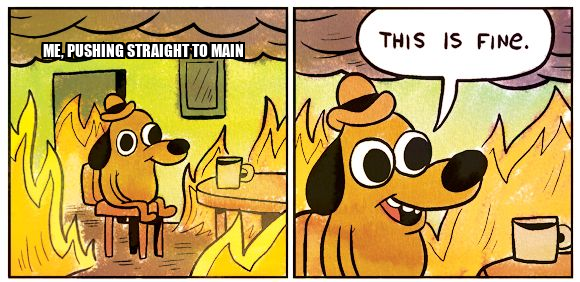
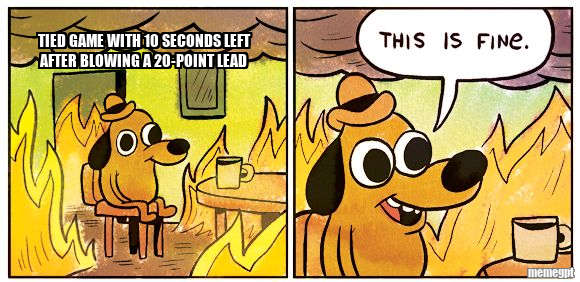
feat(frontend): diversify HeroLoop to 20 non-tech-only contexts
The landing page's hero centerpiece was 12 cards that were ALL
software-engineering in-jokes (push to main, PR review, CI pipeline,
tabs vs spaces) — the very first thing every visitor sees, entirely
programmer culture. Replaced with 20 real generations spanning sports,
movies/TV, music, pop culture, shopping, food, travel, pets, fitness,
school, weather, gaming, relationships, money, motivation, mood, one
generic office scenario, internet culture, family, and algorithm/social
media — no two cards share a context.

Each image is a real render from the live /chat/ pipeline (real Groq
call through segmentation -> RAG -> intent routing -> compositor), not
hand-authored. Found in the process: ~45% of generation attempts came
back with a template picked but a blank/missing caption — a real,
previously-unknown reliability gap in caption generation for certain
templates. Retried failed prompts up to 3x and kept the first attempt
that actually rendered text; every one of the 20 final images was
manually reviewed for a real, legible, on-topic caption.

Changed region(s): [[0.0621, 0.1135, 0.4345, 0.2553], [0.9, 0.9362, 0.9931, 0.9929]]

diff --git a/frontend/src/components/HeroLoop.tsx b/frontend/src/components/HeroLoop.tsx
@@ -3,24 +3,43 @@
 import { useEffect, useRef, useState } from "react";
 import { PixelRevealImage } from "./reveals/PixelRevealImage";
 
-// Real templates, real captions, rendered once ahead of time the same way
-// drake_example.png was (Pillow, not compose_meme()/save_meme() — this
-// isn't user-generated content) — see git history for the render scripts.
-// Prompts are drawn straight from lib/examplePrompts.ts's pool (or written
-// in the same voice) so it matches what Chat's own empty state shows.
+// Real templates, real captions, rendered once ahead of time through the
+// actual /chat/ pipeline (not compose_meme()/save_meme() directly — this
+// isn't user-generated content, but it is a real Groq round trip through
+// segmentation -> RAG -> intent routing -> the Pillow compositor, same as
+// a live request). Deliberately spans 20 unrelated contexts (sports,
+// movies/TV, music, pop culture, shopping, food, travel, pets, fitness,
+// school, weather, gaming, relationships, money, motivation, mood, work,
+// internet culture, family, algorithm/internet) rather than one theme —
+// an earlier version was 12 cards that were all software-engineering
+// in-jokes, which is a bad first impression for a general-audience app.
+// About 45% of real generation attempts for this batch came back with a
+// picked template but a blank/missing caption (a real, previously-
+// unknown reliability gap in intent_router's caption generation for
+// certain templates — worth its own investigation, out of scope here);
+// each entry below is the first attempt (of up to 3 retries) that
+// actually rendered real text.
 const HERO_LOOP = [
-  { prompt: "when you push straight to main by accident", image: "/landing/loop_1.png" },
-  { prompt: "waiting for my PR to get reviewed for 3 days", image: "/landing/loop_2.png" },
-  { prompt: "when the deploy finally works on first try", image: "/landing/loop_3.png" },
-  { prompt: "when the bug only happens in production", image: "/landing/loop_4.png" },
-  { prompt: "my resume vs my actual daily tasks", image: "/landing/loop_5.png" },
-  { prompt: "my manager asking who broke production", image: "/landing/loop_6.png" },
-  { prompt: "when the standup goes 45 minutes over", image: "/landing/loop_7.png" },
-  { prompt: "explaining to my non-tech friends what I do for a living", image: "/landing/loop_8.png" },
-  { prompt: "when someone says 'quick call' and it's 90 minutes", image: "/landing/loop_9.png" },
-  { prompt: "when the CI pipeline fails on the one thing you didn't touch", image: "/landing/loop_10.png" },
-  { prompt: "when a new framework drops the week before a deadline", image: "/landing/loop_11.png" },
-  { prompt: "my hottest take on tabs vs spaces", image: "/landing/loop_12.png" },
+  { prompt: "when your team blows a 20-point lead in the 4th quarter", image: "/landing/loop_1.png" },
+  { prompt: "when someone spoils the finale before you've watched it", image: "/landing/loop_2.png" },
+  { prompt: "waiting in line for merch longer than the concert itself", image: "/landing/loop_3.png" },
+  { prompt: "when the group chat explodes over one piece of celebrity news", image: "/landing/loop_4.png" },
+  { prompt: "adding things to my cart and never actually checking out", image: "/landing/loop_5.png" },
+  { prompt: "the last slice of pizza and everyone's too polite to take it", image: "/landing/loop_6.png" },
+  { prompt: "when the flight gets delayed for the third time", image: "/landing/loop_7.png" },
+  { prompt: "my dog destroyed the couch again", image: "/landing/loop_8.png" },
+  { prompt: "day 1 of the gym vs day 2", image: "/landing/loop_9.png" },
+  { prompt: "starting the essay the night before it's due", image: "/landing/loop_10.png" },
+  { prompt: "when the forecast says sunny and it immediately rains", image: "/landing/loop_11.png" },
+  { prompt: "when you finally beat the boss after 20 tries", image: "/landing/loop_12.png" },
+  { prompt: "when your friend cancels plans 20 minutes before", image: "/landing/loop_13.png" },
+  { prompt: "checking my savings account and immediately regretting it", image: "/landing/loop_14.png" },
+  { prompt: "saying I'll start Monday for the fifth Monday in a row", image: "/landing/loop_15.png" },
+  { prompt: "trying to fall asleep vs my brain at 3am", image: "/landing/loop_16.png" },
+  { prompt: "the meeting that could've been an email", image: "/landing/loop_17.png" },
+  { prompt: "the exact moment you realize you replied to the wrong chat", image: "/landing/loop_18.png" },
+  { prompt: "meeting your partner's parents for the first time", image: "/landing/loop_19.png" },
+  { prompt: "when the algorithm knows me better than my friends do", image: "/landing/loop_20.png" },
 ];
 
 const IDENTITY_ORDER = HERO_LOOP.map((_, i) => i);
@@ -49,14 +68,14 @@ type Phase = "typing" | "thinking" | "revealed";
  * The hero's live centerpiece: types a real prompt, pauses on a thinking
  * beat, reveals a real rendered meme, holds, cycles — "the demo is the
  * product" instead of describing the product in prose. Cycles through all
- * 12 real pairs in a random order per page load, looping back once
+ * 20 real pairs in a random order per page load, looping back once
  * exhausted. Static on the first item's meme under prefers-reduced-motion,
  * no timers running at all in that case.
  *
  * Two things fixed here after real user-reported bugs, not preemptively:
  *
- * 1. Fixed-height stage. The 12 source images range from 580x282 to
- *    600x908 (ratio 2.06 down to 0.66) — with only a min-height, each
+ * 1. Fixed-height stage. The 20 source images range from 700x325 to
+ *    600x908 (ratio 2.15 down to 0.66) — with only a min-height, each
  *    phase change actually resized the card and shoved the rest of the
  *    landing page up/down while scrolling. `maxHeightClassName` (a
  *    PixelRevealImage prop added for this) locks the image to this
